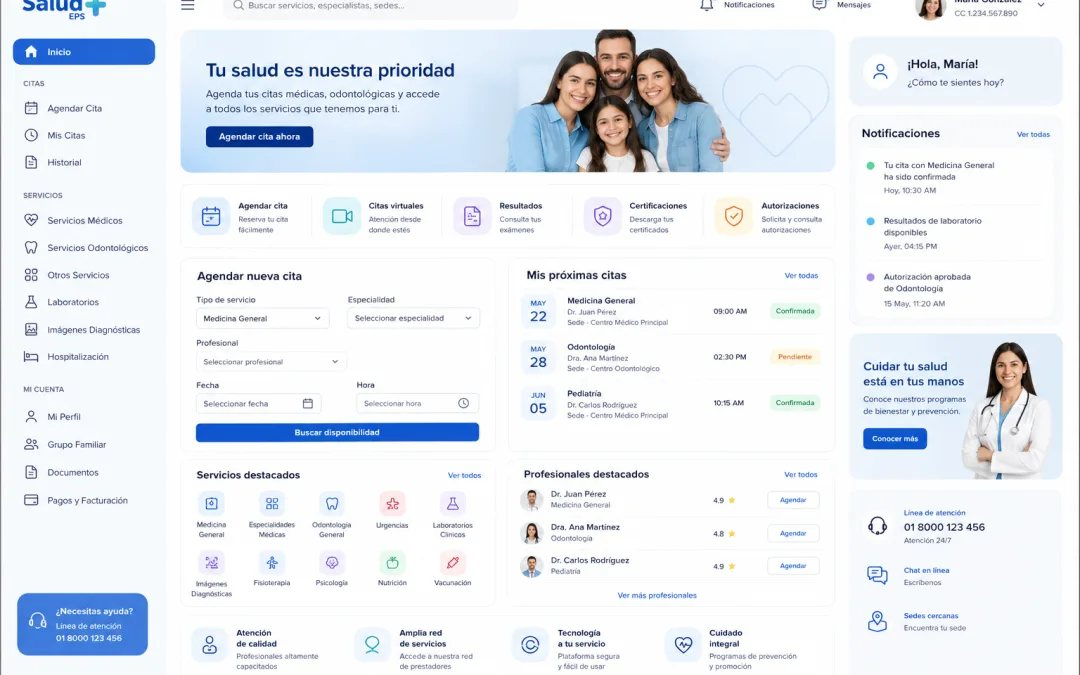
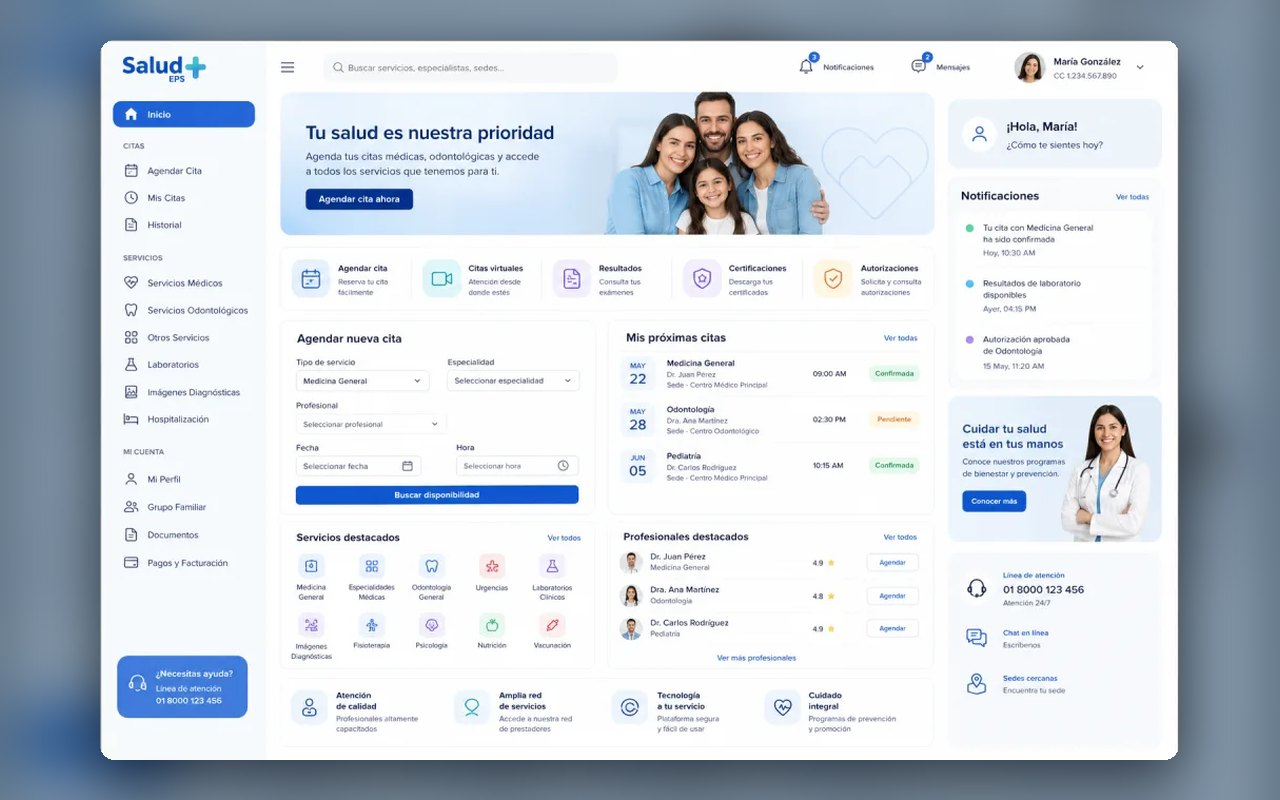
Proyectos con presentación profesional: portadas completas sin recortes y con marco, sellos dorados de premios, imágenes originales al ampliar, botón Ver más / Ver menos que funciona; se quita la foto de equipo

diff --git a/css/style.css b/css/style.css
@@ -912,13 +912,12 @@ select.form-input option {
 .proyecto-tecnologias { font-size: .82rem; color: #64748b; margin: -4px 0 14px; }
 .ver-mas-proyectos { text-align: center; margin-top: 28px; }
 .ver-mas-proyectos .btn-proyecto-sec { cursor: pointer; background: #fff; }
+.ver-mas-proyectos .btn-proyecto-sec[hidden] { display: none; }   /* la clase del botón no debe impedir ocultarlo */
 
-/* Foto del equipo y visor de imágenes en grande */
-.equipo-foto { max-width: 1040px; margin: 0 auto 48px; }
-.equipo-foto img { width: 100%; height: auto; display: block; border-radius: 22px; box-shadow: 0 20px 50px rgba(10, 46, 79, 0.14); }
-.proyecto-media img, .equipo-foto img { cursor: zoom-in; transition: transform .35s ease; }
+/* Visor de imágenes en grande */
+.proyecto-media img { cursor: zoom-in; transition: transform .35s ease; }
 .proyecto-media img:hover { transform: scale(1.03); }
-.proyecto-media img:focus-visible, .equipo-foto img:focus-visible { outline: 3px solid #3FAE49; outline-offset: -3px; }
+.proyecto-media img:focus-visible { outline: 3px solid #3FAE49; outline-offset: -3px; }
 .visor-imagen { position: fixed; inset: 0; z-index: 3000; background: rgba(2, 6, 23, .9); display: flex; flex-direction: column;
   align-items: center; justify-content: center; padding: 56px 16px 24px; }
 .visor-imagen[hidden] { display: none; }
@@ -927,3 +926,9 @@ select.form-input option {
 .visor-cerrar { position: absolute; top: 14px; right: 18px; width: 44px; height: 44px; border-radius: 50%; border: 0; background: rgba(255, 255, 255, .14);
   color: #fff; font-size: 1.3rem; cursor: pointer; }
 .visor-cerrar:hover, .visor-cerrar:focus-visible { background: rgba(255, 255, 255, .28); }
+
+/* Sello de premios y reconocimientos en las tarjetas de proyectos */
+.proyecto-distincion { display: inline-flex; align-items: center; gap: 7px; align-self: flex-start; margin: 2px 0 10px; padding: 5px 12px;
+  border-radius: 999px; font-size: .78rem; font-weight: 700; letter-spacing: .2px; color: #7a5200;
+  background: linear-gradient(135deg, #fff8e1 0%, #fdecc0 100%); border: 1px solid #f1d58a; }
+.proyecto-distincion i { color: #c28a00; }

diff --git a/index.php b/index.php
@@ -171,10 +171,6 @@ $videos_marcela = array_values(array_filter([
       </p>
     </div>
 
-    <figure class="equipo-foto">
-      <img src="img/equipo/equipo-datasense.jpg" alt="Equipo de DataSense Analytics Insights" loading="lazy">
-    </figure>
-
     <div class="team-grid">
       <div class="team-card">
         <div class="team-img-wrapper">
@@ -388,12 +384,13 @@ $videos_marcela = array_values(array_filter([
     <div class="proyectos-rejilla">
       <!-- CuentaVoz (Colsubsidio) -->
       <article class="proyecto-tarjeta proyecto-destacado" data-areas="analitica software hackaton">
-        <div class="proyecto-media"><img src="img/proyectos/cuentavoz.jpg" alt="CuentaVoz: reportes de análisis de consumo con recomendación automática del agente" loading="lazy"></div>
+        <div class="proyecto-media"><img src="img/proyectos/portadas/cuentavoz.jpg" data-grande="img/proyectos/cuentavoz.jpg" alt="CuentaVoz: reportes de análisis de consumo con recomendación automática del agente" loading="lazy"></div>
         <div class="proyecto-cuerpo">
           <span class="proyecto-cliente"><i class="fas fa-building"></i>Colsubsidio</span>
-          <span class="proyecto-area"><i class="fas fa-microphone-lines"></i>Analítica e IA · Desarrollo de software · Hackatón Colsubsidio × 30X 2026</span>
+          <span class="proyecto-area"><i class="fas fa-microphone-lines"></i>Analítica e IA · Software</span>
+          <span class="proyecto-distincion"><i class="fas fa-trophy"></i>Hackatón Colsubsidio × 30X · 2026</span>
           <h3>CuentaVoz: inventario por voz con agente inteligente</h3>
-          <p>Aplicación para contar inventario por voz en las bodegas, con un agente que responde preguntas por voz o texto, análisis de consumo frente a la receta con recomendaciones automáticas, auditoría, legalización y un panel gerencial con alertas y tiempos de conteo. Construida sobre datos reales de la operación: 53 bodegas, 1.040 artículos y 79 inconsistencias de existencias detectadas antes de su cargue al sistema corporativo, con acceso protegido por Amazon Cognito y doble factor.</p>
+          <p>Conteo de inventario por voz en bodega, con un agente que responde por voz o texto, análisis de consumo frente a la receta y un panel gerencial con alertas. Probada con datos reales de la operación: 53 bodegas, 1.040 artículos y 79 inconsistencias detectadas antes del cargue, con acceso protegido por Amazon Cognito y doble factor.</p>
           <div class="proyecto-acciones">
             <a href="#contacto" class="btn-team" data-proyecto="CuentaVoz (inventario por voz con agente inteligente)" data-servicio="DS">Quiero un proyecto así</a>
             <a href="https://www.youtube.com/watch?v=V-ZtG-wGlo4" class="btn-proyecto-sec" target="_blank" rel="noopener noreferrer"><i class="fa-brands fa-youtube me-2"></i>Ver el recorrido</a>
@@ -407,8 +404,9 @@ $videos_marcela = array_values(array_filter([
         <div class="proyecto-cuerpo">
           <span class="proyecto-cliente"><i class="fas fa-landmark"></i>Contraloría General de la República</span>
           <span class="proyecto-area"><i class="fas fa-magnifying-glass-chart"></i>Calidad de la información · Sector público</span>
+          <span class="proyecto-distincion"><i class="fas fa-award"></i>Premio Alfonso Palacio Rudas · 2026</span>
           <h3>Metodología de verificación de información pública</h3>
-          <p>Análisis de datos aplicado a la veracidad, calidad y consistencia de la información que reportan las entidades públicas: cruza fuentes independientes (SECOP II, informes de control fiscal, actos administrativos y estados financieros) para detectar inconsistencias y sustentar cada hallazgo con trazabilidad documental. Reconocida con el Premio Alfonso Palacio Rudas 2026, categoría Académico.</p>
+          <p>Análisis de datos aplicado a la veracidad, calidad y consistencia de la información que reportan las entidades públicas: cruza fuentes independientes (SECOP II, informes de control fiscal, actos administrativos y estados financieros) para detectar inconsistencias y sustentar cada hallazgo con trazabilidad documental. Distinción nacional en la categoría Académico.</p>
           <div class="proyecto-acciones">
             <a href="#contacto" class="btn-team" data-proyecto="Verificación de información pública" data-servicio="ASP">Quiero un proyecto así</a>
           </div>
@@ -417,10 +415,11 @@ $videos_marcela = array_values(array_filter([
 
       <!-- Hackatón Talento Tech Región 7 (MinTIC): primer lugar -->
       <article class="proyecto-tarjeta" data-areas="analitica hackaton">
-        <div class="proyecto-media"><img src="img/proyectos/talento-tech-primer-lugar.jpg" alt="Primer lugar en la Hackatón Talento Tech Región 7 Boyacá–Cundinamarca 2025: Luis Guillermo Nieto Patiño con el trofeo y el certificado de reconocimiento" loading="lazy"></div>
+        <div class="proyecto-media"><img src="img/proyectos/portadas/talento-tech-primer-lugar.jpg" data-grande="img/proyectos/talento-tech-primer-lugar.jpg" alt="Primer lugar en la Hackatón Talento Tech Región 7 Boyacá–Cundinamarca 2025: Luis Guillermo Nieto Patiño con el trofeo y el certificado de reconocimiento" loading="lazy"></div>
         <div class="proyecto-cuerpo">
           <span class="proyecto-cliente"><i class="fas fa-flag"></i>Ministerio TIC · Talento Tech</span>
-          <span class="proyecto-area"><i class="fas fa-chart-line"></i>Analítica avanzada · Hackatón</span>
+          <span class="proyecto-area"><i class="fas fa-chart-line"></i>Analítica avanzada</span>
+          <span class="proyecto-distincion"><i class="fas fa-trophy"></i>Primer lugar · Hackatón Talento Tech · 2025</span>
           <h3>Analítica avanzada con pronósticos y minería de procesos</h3>
           <p>Solución ganadora del primer lugar regional en Boyacá y Cundinamarca en 2025, reconocida por su excelencia, creatividad e innovación: integración de datos en MySQL, pronósticos con modelos de series de tiempo (ARIMA y Prophet), minería de procesos con PM4Py y tableros en Power BI, construida con datos reales y bajo presión de tiempo.</p>
           <div class="proyecto-acciones">
@@ -430,7 +429,7 @@ $videos_marcela = array_values(array_filter([
       </article>
 
       <article class="proyecto-tarjeta" data-areas="software">
-        <div class="proyecto-media"><img src="img/proyectos/tour-mountain-adventure.jpg" alt="Sitio web de Tour Mountain Adventure: caminatas guiadas por Cundinamarca" loading="lazy"></div>
+        <div class="proyecto-media"><img src="img/proyectos/portadas/tour-mountain-adventure.jpg" data-grande="img/proyectos/tour-mountain-adventure.jpg" alt="Sitio web de Tour Mountain Adventure: caminatas guiadas por Cundinamarca" loading="lazy"></div>
         <div class="proyecto-cuerpo">
           <span class="proyecto-cliente"><i class="fas fa-mountain-sun"></i>Tour Mountain Adventure</span>
           <span class="proyecto-area"><i class="fas fa-code"></i>Desarrollo web · Turismo</span>
@@ -459,7 +458,7 @@ $videos_marcela = array_values(array_filter([
       </article>
 
       <article class="proyecto-tarjeta" data-areas="software publico">
-        <div class="proyecto-media"><img src="img/proyectos/plataforma-datasense.jpg" alt="Panel de la plataforma DataSense con sus módulos de operación, mesa de servicios, PQRSD, facturación y contabilidad" loading="lazy"></div>
+        <div class="proyecto-media"><img src="img/proyectos/portadas/plataforma-datasense.jpg" data-grande="img/proyectos/plataforma-datasense.jpg" alt="Panel de la plataforma DataSense con sus módulos de operación, mesa de servicios, PQRSD, facturación y contabilidad" loading="lazy"></div>
         <div class="proyecto-cuerpo">
           <span class="proyecto-area"><i class="fas fa-code"></i>Desarrollo de software</span>
           <h3>Plataforma de gestión DataSense</h3>
@@ -472,7 +471,7 @@ $videos_marcela = array_values(array_filter([
       </article>
 
       <article class="proyecto-tarjeta" data-areas="analitica publico">
-        <div class="proyecto-media"><img src="img/productos/prod_6d6fee582c7499d3.jpg" alt="Tablero de ejecución presupuestal con indicadores, ejecución por sector y porcentaje de ejecución" loading="lazy"></div>
+        <div class="proyecto-media"><img src="img/proyectos/portadas/transparencia-presupuestal.jpg" data-grande="img/productos/prod_6d6fee582c7499d3.jpg" alt="Tablero de ejecución presupuestal con indicadores, ejecución por sector y porcentaje de ejecución" loading="lazy"></div>
         <div class="proyecto-cuerpo">
           <span class="proyecto-area"><i class="fas fa-landmark"></i>Analítica sector público</span>
           <h3>Tablero de Transparencia Presupuestal</h3>
@@ -502,7 +501,7 @@ $videos_marcela = array_values(array_filter([
 
       <?php foreach ($portafolio_luis as [$imagen, $areas, $etiqueta, $titulo, $texto, $tecnologias, $pagina, $servicio]): ?>
       <article class="proyecto-tarjeta proyecto-extra" data-areas="<?= esc($areas) ?>">
-        <div class="proyecto-media"><img src="img/proyectos/portafolio/<?= esc($imagen) ?>" alt="<?= esc($titulo) ?>" loading="lazy"></div>
+        <div class="proyecto-media"><img src="img/proyectos/portafolio/<?= esc($imagen) ?>" data-grande="img/proyectos/portafolio/completas/<?= esc($imagen) ?>" alt="<?= esc($titulo) ?>" loading="lazy"></div>
         <div class="proyecto-cuerpo">
           <span class="proyecto-cliente"><i class="fas fa-user-tie"></i>Portafolio de Luis Nieto</span>
           <span class="proyecto-area"><i class="fas fa-layer-group"></i><?= esc($etiqueta) ?></span>
@@ -518,7 +517,7 @@ $videos_marcela = array_values(array_filter([
       <?php endforeach; ?>
     </div>
     <?php if ($portafolio_luis): ?>
-    <div class="ver-mas-proyectos"><button type="button" class="btn-proyecto-sec" id="verMasProyectos" hidden><i class="fas fa-plus me-2"></i>Ver más proyectos (<span class="ver-mas-total"></span>)</button></div>
+    <div class="ver-mas-proyectos"><button type="button" class="btn-proyecto-sec" id="verMasProyectos" aria-expanded="false" hidden><i class="fas fa-plus me-2"></i><span class="ver-mas-texto">Ver más proyectos</span></button></div>
     <?php endif; ?>
 
     <?php if ($testimonios):
@@ -1159,7 +1158,12 @@ document.addEventListener("DOMContentLoaded", function () {
       const coincide = filtro === 'todos' || areas(t).includes(filtro);
       t.hidden = !coincide || (filtro === 'todos' && !expandido && t.classList.contains('proyecto-extra'));
     });
-    if (verMas) verMas.hidden = !(filtro === 'todos' && !expandido && extras.length);
+    if (verMas) {
+      verMas.hidden = !(filtro === 'todos' && extras.length);
+      verMas.setAttribute('aria-expanded', expandido ? 'true' : 'false');
+      verMas.querySelector('i').className = (expandido ? 'fas fa-minus' : 'fas fa-plus') + ' me-2';
+      verMas.querySelector('.ver-mas-texto').textContent = expandido ? 'Ver menos proyectos' : 'Ver más proyectos (' + extras.length + ')';
+    }
   };
   botones.forEach(function (b) {
     const f = b.dataset.filtro;
@@ -1171,8 +1175,12 @@ document.addEventListener("DOMContentLoaded", function () {
     });
   });
   if (verMas) {
-    verMas.querySelector('.ver-mas-total').textContent = extras.length;
-    verMas.addEventListener('click', function () { expandido = true; aplicar(); });
+    verMas.addEventListener('click', function () {
+      expandido = !expandido;
+      aplicar();
+      // Al recoger la lista, se vuelve al comienzo de los proyectos para no quedar más abajo de la página
+      if (!expandido) document.getElementById('proyectos').scrollIntoView({ behavior: 'smooth', block: 'start' });
+    });
   }
   aplicar();
 })();
@@ -1183,7 +1191,7 @@ document.addEventListener("DOMContentLoaded", function () {
   <p class="visor-titulo"></p>
 </div>
 <script>
-// Imágenes de proyectos y del equipo: al tocarlas se ven en grande (se cierra con la X, tocando afuera o con Esc)
+// Imágenes de los proyectos: al tocarlas se ven en grande (se cierra con la X, tocando afuera o con Esc)
 (function () {
   const visor = document.getElementById('visorImagen');
   if (!visor) return;
@@ -1193,7 +1201,7 @@ document.addEventListener("DOMContentLoaded", function () {
   let origen = null;
   const abrir = function (img) {
     origen = img;
-    grande.src = img.currentSrc || img.src;
+    grande.src = img.dataset.grande || img.currentSrc || img.src;
     grande.alt = img.alt;
     titulo.textContent = img.alt;
     visor.hidden = false;
@@ -1206,7 +1214,7 @@ document.addEventListener("DOMContentLoaded", function () {
     document.body.style.overflow = '';
     if (origen) origen.focus();
   };
-  document.querySelectorAll('.proyecto-media img, .equipo-foto img').forEach(function (img) {
+  document.querySelectorAll('.proyecto-media img').forEach(function (img) {
     img.tabIndex = 0;
     img.setAttribute('role', 'button');
     img.title = 'Ver en grande';

diff --git a/includes/redes_contenido.php b/includes/redes_contenido.php
@@ -49,7 +49,6 @@ function galeriaAfiches(PDO $db) {
         ['Equipo', 'Marcela Pacheco Parra', 'img/marcela.jpg'],
         ['Equipo', 'Luis Guillermo Nieto Patiño', 'img/luis.jpg'],
         ['Equipo', 'Marcela y Luis, fundadores', 'img/equipo/fundadores.jpg'],
-        ['Equipo', 'Equipo DataSense', 'img/equipo/equipo-datasense.jpg'],
         ['Reconocimientos', 'Primer lugar Talento Tech 2025', 'img/proyectos/talento-tech-primer-lugar.jpg'],
         ['Reconocimientos', 'Premio Alfonso Palacio Rudas 2026', 'img/proyectos/premio-alfonso-palacio-rudas.jpg'],
         ['Proyectos', 'CuentaVoz · inventario por voz', 'img/proyectos/cuentavoz.jpg'],
